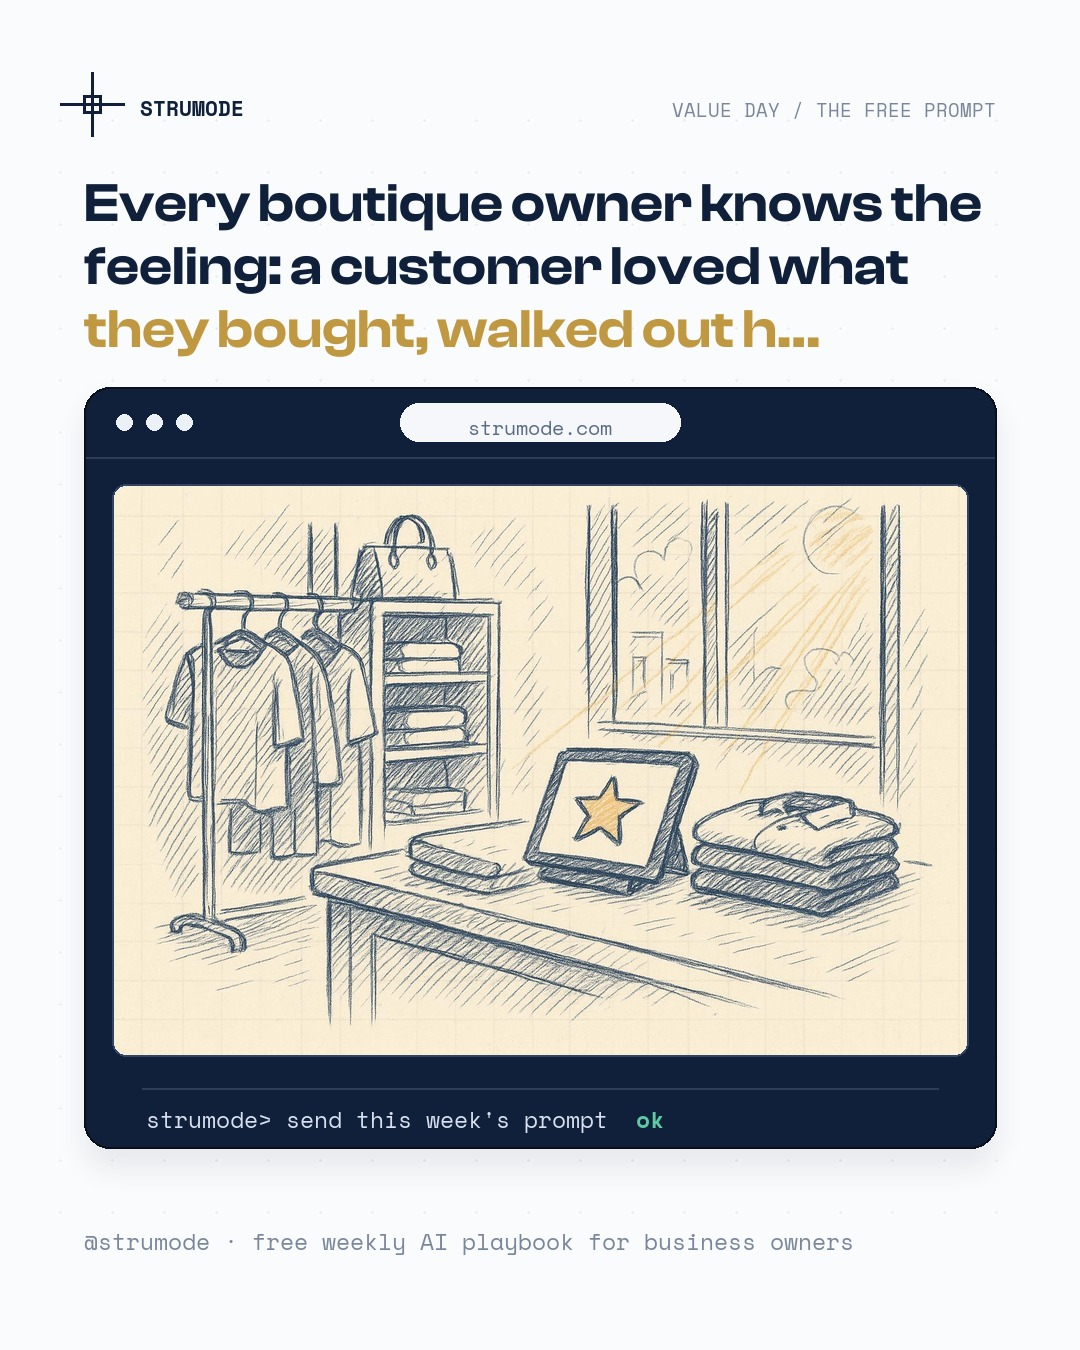
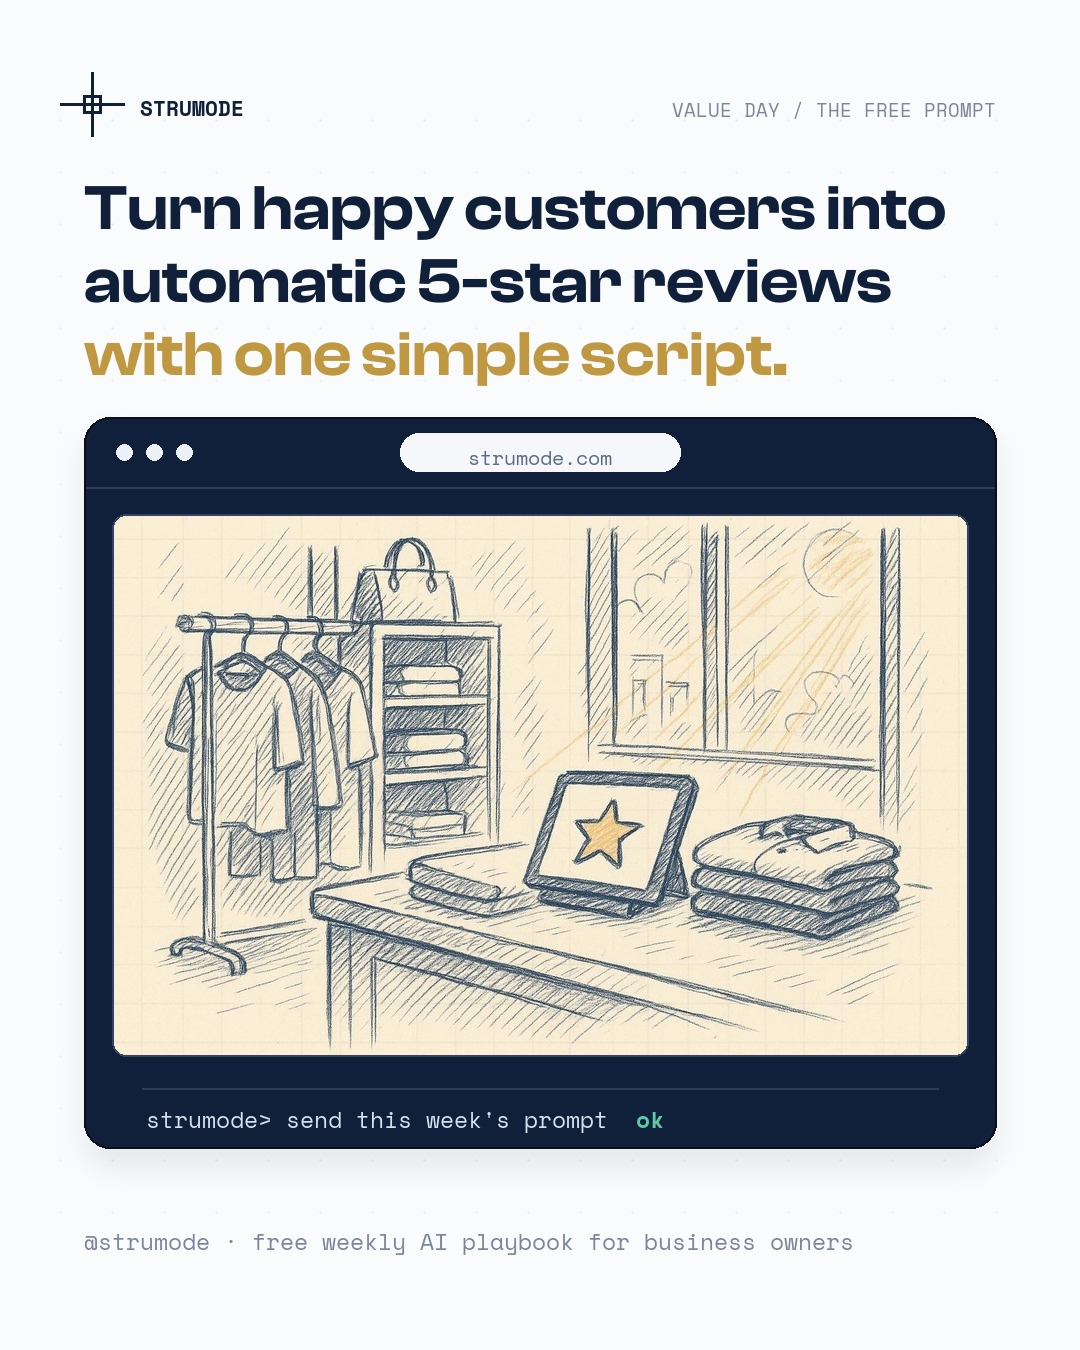
Apply review fixes: caption period + reviewed image_headline on value slide

Changed region(s): [[0.0611, 0.1244, 0.9167, 0.7778]]

diff --git a/content/queue/.review-report.md b/content/queue/.review-report.md
@@ -1,0 +1,24 @@
+## Proofread report (review.py)
+### 2026-07-30_value.md
+- ✏ auto-fixed 52 line(s):
+  line 5: “status: draft” → “image_headline: Turn happy customers into automatic 5-star reviews wit”
+  line 6: “style_override:” → “status: draft”
+  line 7: “media_id:” → “style_override:”
+  line 8: “published_at:” → “media_id:”
+  line 9: “---” → “published_at:”
+  line 10: “” → “---”
+  line 11: “# Value Day — 2026-07-30” → “”
+  line 12: “” → “# Value Day — 2026-07-30”
+  line 13: “## Image prompt” → “”
+  line 14: “A tidy boutique clothing shop counter with a tablet propped up showing” → “## Image prompt”
+  line 15: “” → “A tidy boutique clothing shop counter with a tablet propped up showing”
+  line 16: “## Caption” → “”
+  line 17: “Every boutique owner knows the feeling: a customer loved what they bou” → “## Caption”
+  line 18: “” → “Every boutique owner knows the feeling: a customer loved what they bou”
+  line 19: “Getting reviews shouldn't depend on remembering to ask, or hoping some” → “”
+  line 20: “” → “Getting reviews shouldn't depend on remembering to ask, or hoping some”
+  line 21: “We use a simple script that turns happy customers into 5-star reviews ” → “”
+  line 22: “” → “We use a simple script that turns happy customers into 5-star reviews ”
+  line 23: “Comment PROMPT and it's in your DMs” → “”
+  line 24: “” → “Comment PROMPT and it's in your DMs.”
+- ✅ structure clean: complete sentences, balanced punctuation

diff --git a/content/queue/2026-07-30_value.md b/content/queue/2026-07-30_value.md
@@ -2,6 +2,7 @@
 type: value
 post_date: 2026-07-30
 media_type: image
+image_headline: Turn happy customers into automatic 5-star reviews with one simple script.
 status: draft
 style_override: 
 media_id: 
@@ -20,7 +21,7 @@ Getting reviews shouldn't depend on remembering to ask, or hoping someone feels 
 
 We use a simple script that turns happy customers into 5-star reviews on autopilot — the exact wording, the exact timing, no awkward begging.
 
-Comment PROMPT and it's in your DMs
+Comment PROMPT and it's in your DMs.
 
 ## Prompt payload (ManyChat DM)
 THE 5-STAR REVIEW REQUEST SYSTEM
